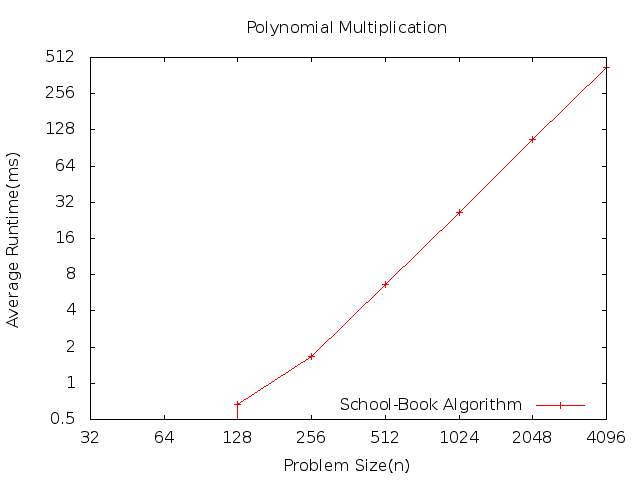
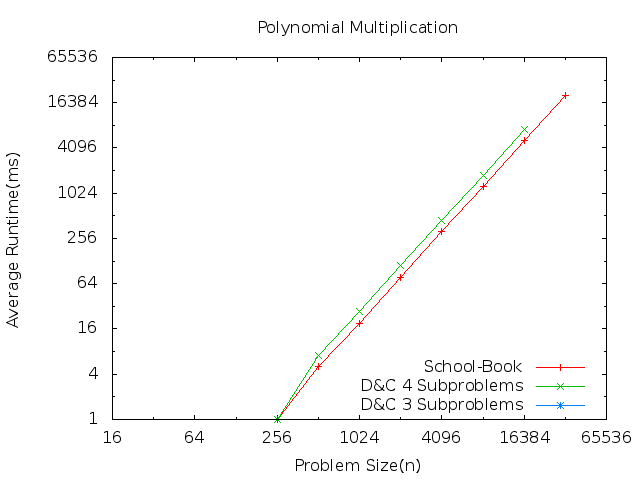
finished dnc4 adding some results

diff --git a/cs-5050/hw3/code/Test.cpp b/cs-5050/hw3/code/Test.cpp
@@ -36,6 +36,8 @@ void Test::test(std::string which) {
     SchoolBook_works();
   } else if(which == "dnc4") {
     DnC4_works();
+  } else if(which == "dnc3") {
+    DnC3_works();
   }
 }
 
@@ -46,6 +48,8 @@ void Test::run(std::string which) {
     SchoolBook();
   } else if(which == "dnc4") {
     DnC4();
+  } else if(which == "dnc3") {
+    DnC3();
   }
 }
 
@@ -136,7 +140,23 @@ void Test::SchoolBook_works() {
 }
 
 void Test::DnC4() {
+  int minN = 32, maxN = 2000000;
+  const int RUNS = 30;
 
+  std::cout << "DnC 4 smaller problems" << std::endl
+            << "N" << '\t' << "Time" << std::endl;
+
+  for(int n = minN; n <= maxN; n*=2) {
+
+    int runTime = averageRuntime([=](){
+
+      PolyMult polyMult(n);
+      polyMult.divideAndConquer4(0, n-1, 0, n-1);
+
+    }, 30);
+
+    std::cout << n << '\t' << runTime << std::endl;
+  }
 }
 
 void Test::DnC4_works() {
@@ -191,6 +211,92 @@ void Test::DnC4_works() {
 
     PolyMult polyMult(n, p, q);
     polyMult.divideAndConquer4(0, n-1, 0, n-1);
+    polyMult.print();
+
+    double pqExpected[] = {4,8,23,32,35,24,6};
+    std::vector<double> pqActual = polyMult.getPQ();
+
+    for(int index = 0; index < 2*n-1; ++index) {
+      if(pqActual[index] != pqExpected[index]) {
+        std::cout << "************** Failed ***************" << std::endl;
+        return;
+      }
+    }
+  }
+}
+
+void Test::DnC3() {
+  int minN = 32, maxN = 2000000;
+  const int RUNS = 30;
+
+  std::cout << "DnC 4 smaller problems" << std::endl
+            << "N" << '\t' << "Time" << std::endl;
+
+  for(int n = minN; n <= maxN; n*=2) {
+
+    int runTime = averageRuntime([=](){
+
+      PolyMult polyMult(n);
+      polyMult.divideAndConquer3(0, n-1, 0, n-1);
+
+    }, 30);
+
+    std::cout << n << '\t' << runTime << std::endl;
+  }
+}
+
+void Test::DnC3_works() {
+  { // TEST 1
+    int n = 2;
+    double p[] = {3,5};
+    double q[] = {2,1};
+
+    PolyMult polyMult(n, p, q);
+    polyMult.divideAndConquer3(0, n-1, 0, n-1);
+    polyMult.print();
+
+    double pqExpected[] = {6,13,5};
+    std::vector<double> pqActual = polyMult.getPQ();
+
+    for(int index = 0; index < 2*n-1; ++index) {
+      if(pqActual[index] != pqExpected[index]) {
+        std::cout << "************** Failed ***************" << std::endl;
+        break;
+      }
+    }
+  }
+
+  std::cout << std::endl;
+
+  { // TEST 2
+    int n = 3;
+    double p[] = {2,3,4};
+    double q[] = {2,1,6};
+
+    PolyMult polyMult(n, p, q);
+    polyMult.divideAndConquer3(0, n-1, 0, n-1);
+    polyMult.print();
+
+    double pqExpected[] = {4,8,23,22,24};
+    std::vector<double> pqActual = polyMult.getPQ();
+
+    for(int index = 0; index < 2*n-1; ++index) {
+      if(pqActual[index] != pqExpected[index]) {
+        std::cout << "************** Failed ***************" << std::endl;
+        break;
+      }
+    }
+  }
+
+  std::cout << std::endl;
+
+  { // TEST 3
+    int n = 4;
+    double p[] = {2,3,4,2};
+    double q[] = {2,1,6,3};
+
+    PolyMult polyMult(n, p, q);
+    polyMult.divideAndConquer3(0, n-1, 0, n-1);
     polyMult.print();
 
     double pqExpected[] = {4,8,23,32,35,24,6};

diff --git a/cs-5050/hw3/code/PolyMult.cpp b/cs-5050/hw3/code/PolyMult.cpp
@@ -47,10 +47,6 @@ void PolyMult::divideAndConquer4(int pLow, int pHigh, int qLow, int qHigh) {
   int pMid = (pHigh - pLow)/2 + pLow;
   int qMid = (qHigh - qLow)/2 + qLow;
 
-  // std::cout << "P: " << pLow << '-' << pMid << '-' << pHigh << ' '
-  //           << "Q: " << qLow << '-' << qMid << '-' << qHigh << ' '
-  //           << std::endl;
-
   divideAndConquer4(pLow, pMid, qLow, qMid);
   divideAndConquer4(pMid+1, pHigh, qMid+1, qHigh);
   divideAndConquer4(pLow, pMid, qMid+1, qHigh);
@@ -67,10 +63,11 @@ void PolyMult::divideAndConquer3(int pLow, int pHigh, int qLow, int qHigh) {
   int pMid = (pHigh - pLow)/2 + pLow;
   int qMid = (qHigh - qLow)/2 + qLow;
 
-  divideAndConquer4(pLow, pMid, qLow, qMid);
-  divideAndConquer4(pMid+1, pHigh, qMid+1, qHigh);
-  divideAndConquer4(pLow, pMid, qMid+1, qHigh);
-  divideAndConquer4(pMid+1, pHigh, qLow, qMid);
+  divideAndConquer3(pLow, pMid, qLow, qMid);
+  divideAndConquer3(pMid+1, pHigh, qMid+1, qHigh);
+
+  divideAndConquer3(pLow, pMid, qMid+1, qHigh);
+  divideAndConquer3(pMid+1, pHigh, qLow, qMid);
 }
 
 //////////// Print ////////////////

diff --git a/cs-5050/hw3/code/Test.hpp b/cs-5050/hw3/code/Test.hpp
@@ -20,6 +20,9 @@ public:
 
   static void DnC4();
   static void DnC4_works();
+
+  static void DnC3();
+  static void DnC3_works();
 };
 
 #endif
